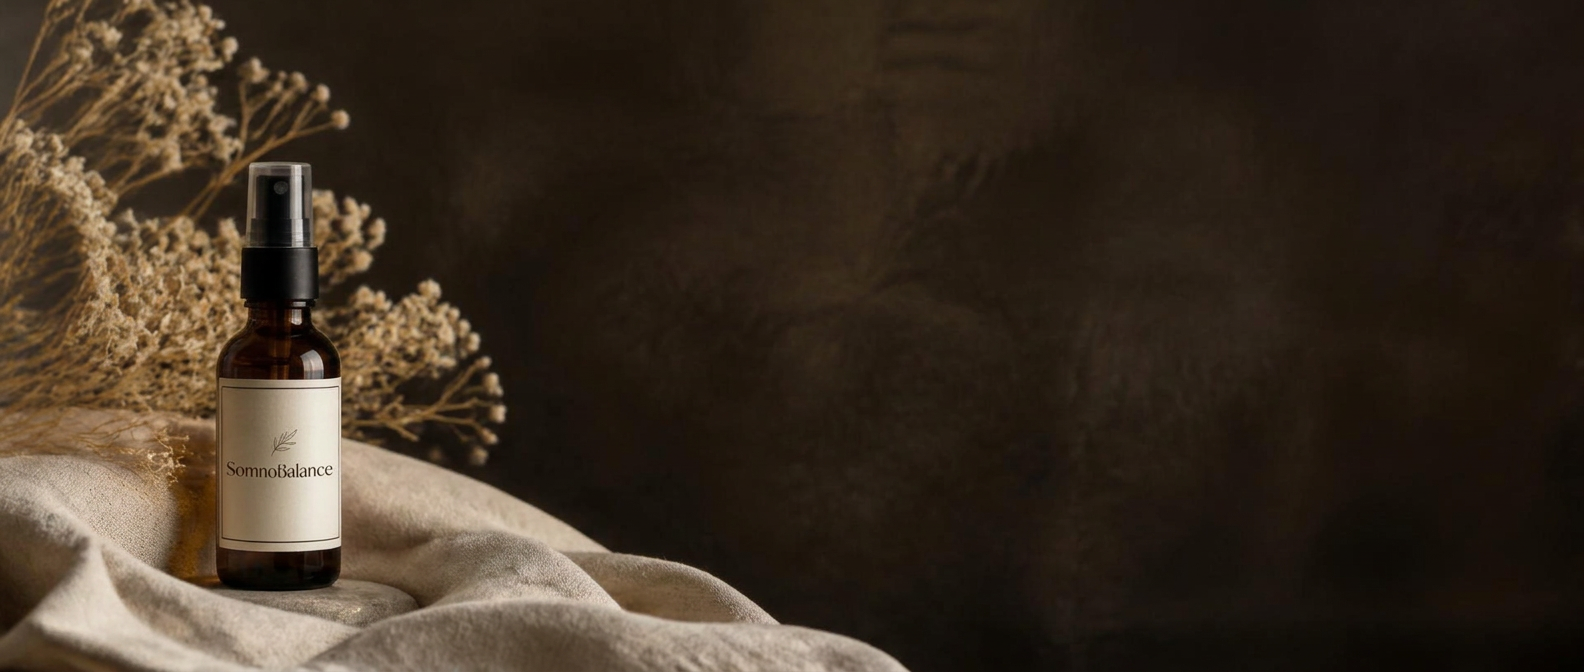
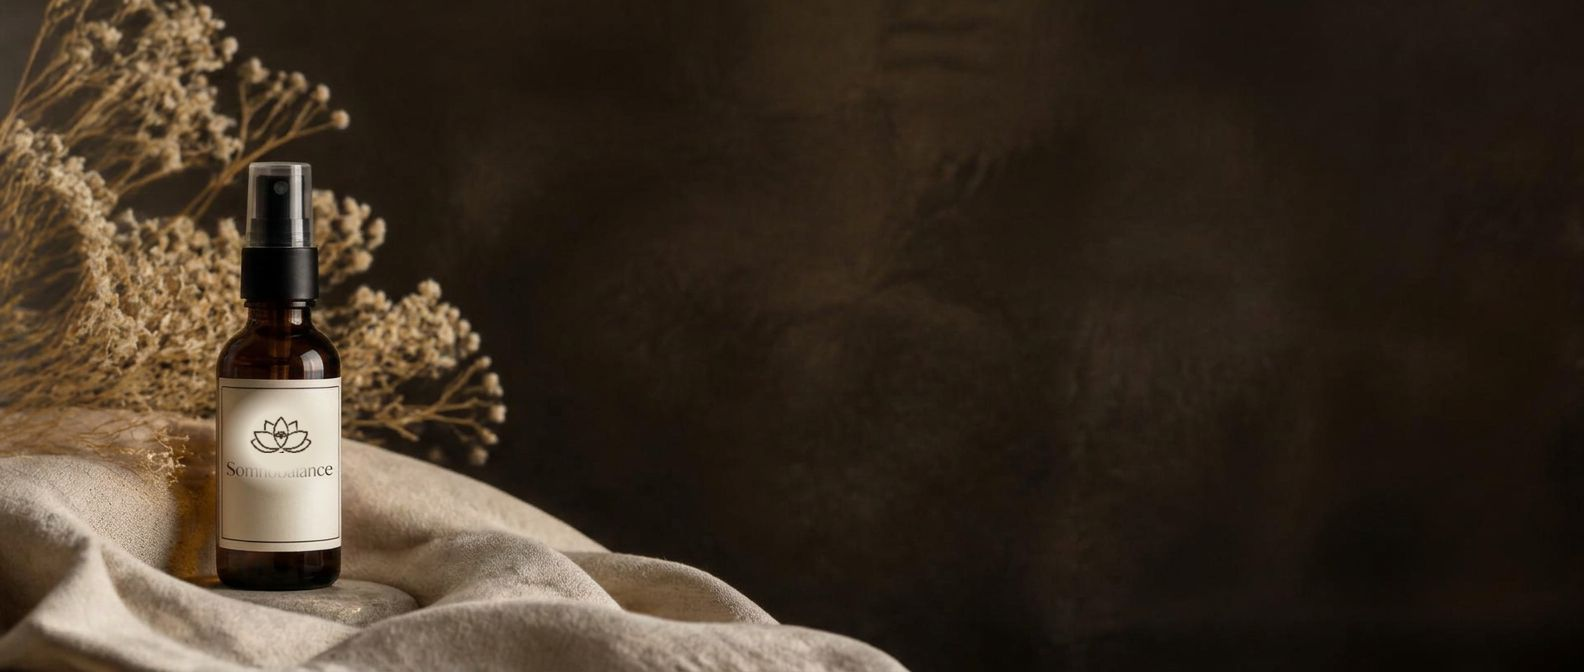
Swap footer bottle's leaf label for a lotus, drop background flowers
pdp-footer.jpg's bottle label showed a generic leaf glyph baked into
the photo. Composited the real lotus mark over it in matching ink
color (erased the leaf with a feathered patch of the label's cream
tone first, then stamped the recolored lotus icon in its place) so
the swap reads as part of the original photography.

Also removes LotusField, the scattered lotus-flower background
pattern added earlier — reverting to the plain photo backdrop.

Changed region(s): [[0.1237, 0.5625, 0.2165, 0.7188]]

diff --git a/src/app/[lang]/page.tsx b/src/app/[lang]/page.tsx
@@ -6,7 +6,6 @@ import { getDictionary } from "@/i18n/getDictionary";
 import { isLocale, type Locale } from "@/i18n/config";
 import { notFound } from "next/navigation";
 import { CycleBar } from "@/components/CycleBar";
-import { LotusField } from "@/components/LotusField";
 
 export default async function Home({ params }: { params: Promise<{ lang: string }> }) {
   const { lang } = await params;
@@ -24,8 +23,6 @@ export default async function Home({ params }: { params: Promise<{ lang: string 
         backgroundAttachment: "fixed",
       }}
     >
-      <LotusField />
-
       <section
         className="relative overflow-hidden"
         style={{ background: "color-mix(in srgb, var(--color-scroll-1) 74%, transparent)" }}
